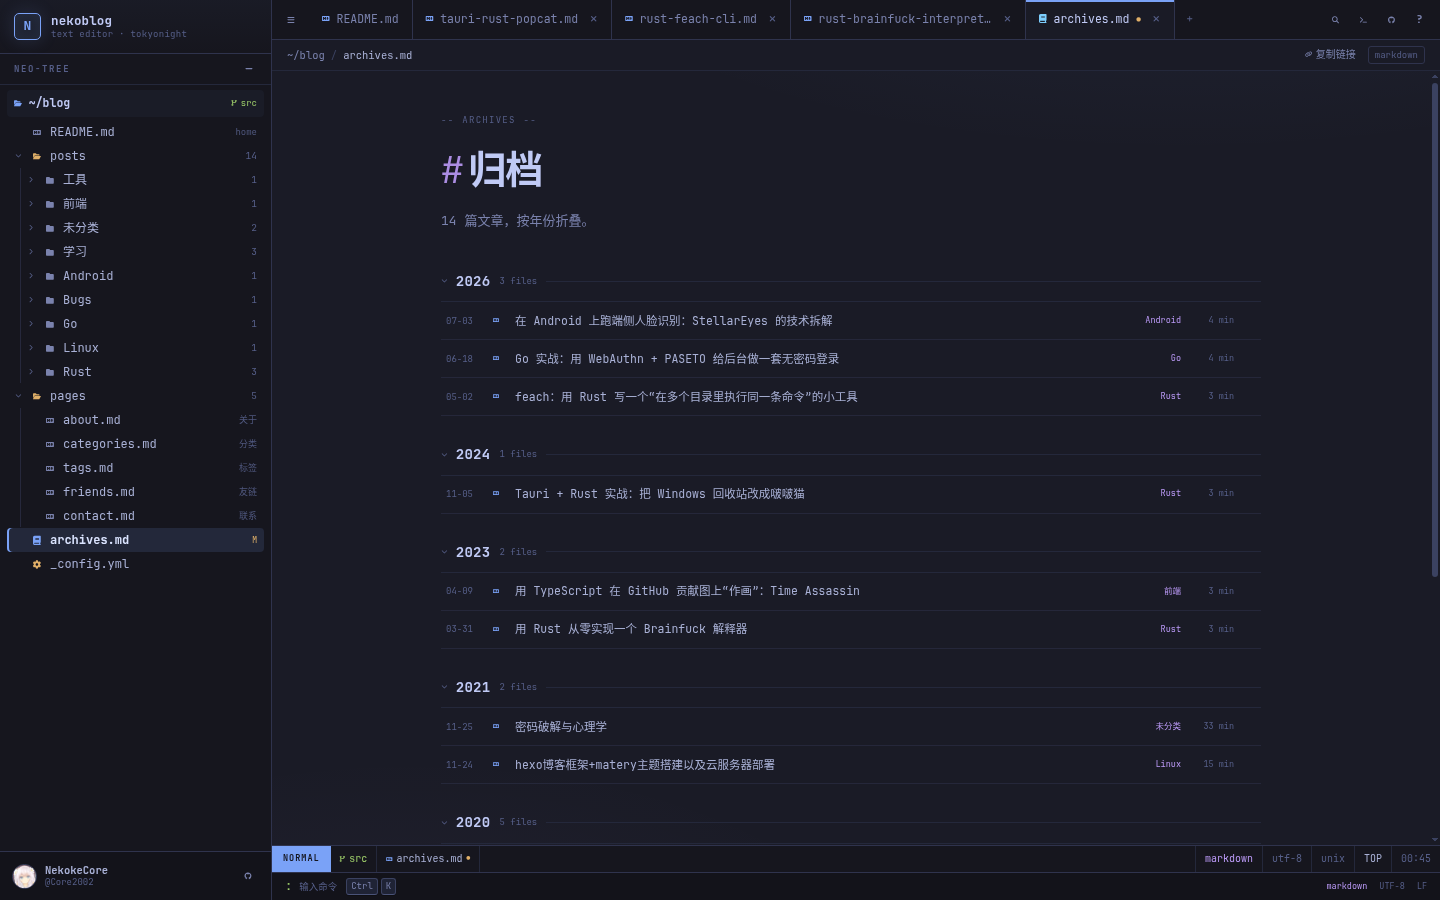
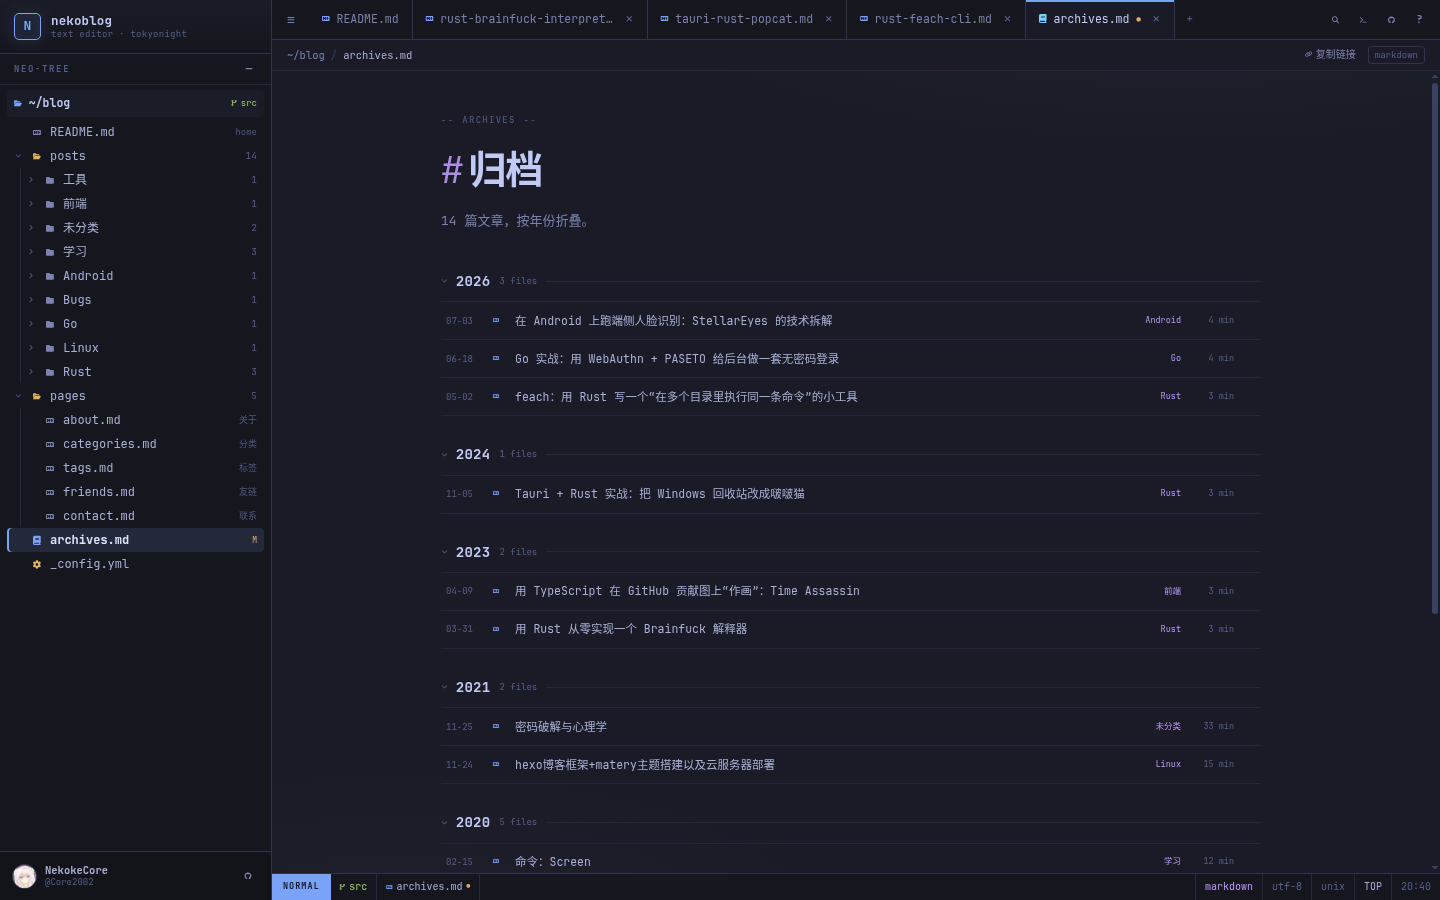
移除底部 cmdline 状态行
删除状态栏下方的命令行条及其 CSS/响应式规则，让 lualine 状态栏直接贴底；快捷键 :、Ctrl+K 和顶部命令按钮仍可打开命令面板。同步更新主题预览图与 README 描述。

diff --git a/themes/nvim/source/css/nvim.css b/themes/nvim/source/css/nvim.css
@@ -52,7 +52,6 @@
   --tab-h: 40px;
   --winbar-h: 31px;
   --status-h: 27px;
-  --cmd-h: 28px;
   --radius: 5px;
 }
 
@@ -1328,42 +1327,6 @@ body.mode-help .sl-mode { background: var(--cyan); }
 .sl-clock { color: var(--muted-2); font-variant-numeric: tabular-nums; }
 .status-right .sl-enc, .status-right .sl-eol { color: var(--muted-2); }
 
-/* -------------------------------- cmdline -------------------------------- */
-.cmdline {
-  display: flex;
-  align-items: stretch;
-  justify-content: space-between;
-  flex: 0 0 var(--cmd-h);
-  height: var(--cmd-h);
-  border-top: 1px solid var(--border);
-  background: var(--bg-deep);
-  color: var(--muted);
-  font-size: 10.5px;
-}
-.cmdline-open {
-  display: flex;
-  align-items: center;
-  gap: 7px;
-  min-width: 0;
-  padding: 0 13px;
-  color: var(--muted);
-  text-align: left;
-}
-.cmdline-open:hover { background: rgba(255, 255, 255, .025); color: var(--fg-dim); }
-.cmd-colon { color: var(--green); font-size: 12px; }
-.cmd-hint { color: var(--muted-2); font-size: 9.5px; }
-.cmd-keys { display: flex; gap: 3px; margin-left: 2px; }
-.cmd-cursor {
-  width: 6px;
-  height: 12px;
-  margin-left: 1px;
-  background: var(--green);
-  opacity: .75;
-  animation: blink 1.15s steps(1) infinite;
-}
-.cmdline-right { display: flex; align-items: center; gap: 12px; padding: 0 13px; color: var(--muted-2); font-size: 8.5px; }
-.cmdline-right span:first-child { color: var(--purple); }
-
 /* -------------------------------- palette -------------------------------- */
 .palette-layer { position: fixed; inset: 0; z-index: 200; }
 .palette-layer[hidden] { display: none; }
@@ -1942,8 +1905,6 @@ body.lightbox-open .app { filter: blur(1px) brightness(.8); }
   .contact-grid { grid-template-columns: 1fr; }
   .tag-filter { height: 31px; }
   .status-right .sl-ft, .status-right .sl-enc, .status-right .sl-eol { display: none; }
-  .cmdline-right { display: none; }
-  .cmdline-open { padding: 0 10px; }
   .palette-window { width: calc(100vw - 20px); margin-top: 4vh; max-height: 86vh; }
   .palette-body { grid-template-columns: 1fr; height: min(380px, 58vh); max-height: 58vh; }
   .palette-preview { display: none; }
@@ -1976,7 +1937,7 @@ body.lightbox-open .app { filter: blur(1px) brightness(.8); }
 /* -------------------------------- print --------------------------------- */
 @media print {
   html, body { height: auto; overflow: visible; background: #fff; color: #111; }
-  .sidebar, .tabline, .winbar, .statusline, .cmdline, .outline, .palette-layer,
+  .sidebar, .tabline, .winbar, .statusline, .outline, .palette-layer,
   .drawer-backdrop, .skip-link, .post-actions, .post-nav, .block-cursor { display: none !important; }
   .app, .workspace, .viewport { display: block; height: auto; overflow: visible; background: #fff; }
   .buffer-shell, body.has-outline .buffer-shell { display: block; max-width: none; padding: 0; }

diff --git a/themes/nvim/README.md b/themes/nvim/README.md
@@ -1,6 +1,6 @@
 # nvim — a text-editor theme for Hexo
 
-把博客做成一扇 Neovim 窗口：左侧是 **neo-tree**，顶部是 buffer 标签栏，底部是 lualine 状态栏和命令行，文章页右侧是 outline。配色为 **Tokyo Night**，所有字体、图标、脚本都本地加载，不依赖 CDN。
+把博客做成一扇 Neovim 窗口：左侧是 **neo-tree**，顶部是 buffer 标签栏，底部是 lualine 状态栏，文章页右侧是 outline。配色为 **Tokyo Night**，所有字体、图标、脚本都本地加载，不依赖 CDN。
 
 ![首页](preview/home.png)
 
